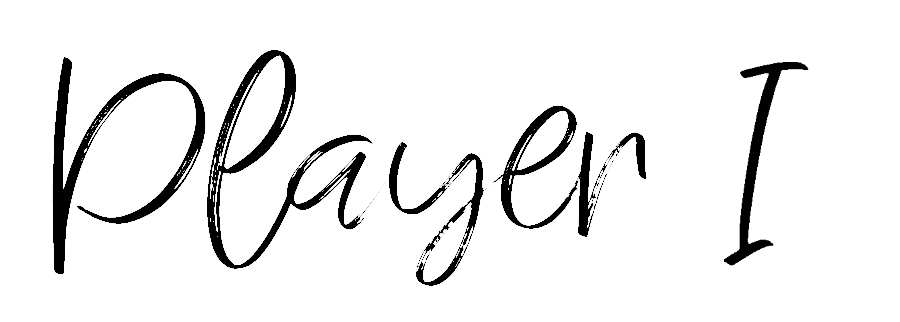
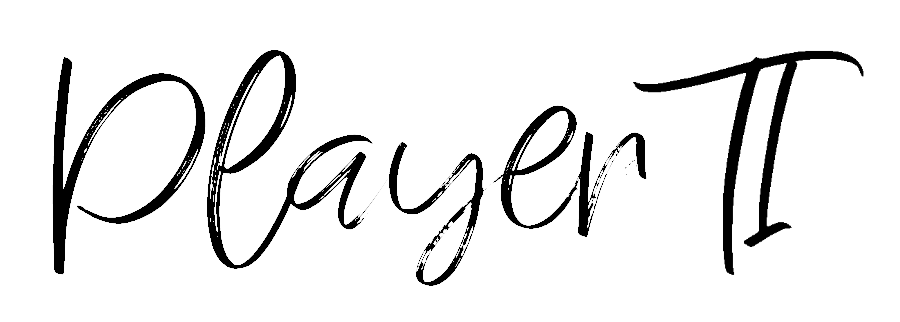
InfoPanel almost ready

Changed region(s): [[0.6844, 0.1553, 0.9644, 0.8385]]

diff --git a/src/main/java/gui/PlayerStatusPanel.java b/src/main/java/gui/PlayerStatusPanel.java
@@ -15,17 +15,27 @@ public class PlayerStatusPanel extends TemporalParent {
 //    private JLabel playerScoreLabel;
 //    private JLabel playerPointer;
     private int playerIndexNumber;
-//    private int playerScoreValue;
+    private int playerScoreValue = 0;
+    private String scoreValueGraphicUrl = "src\\main\\resources\\infoPanel\\" + playerScoreValue + ".png";
+//    private String playerNameGraphicUrl = "src\\main\\resources\\infoPanel\\player" + playerIndexNumber +".png";
 
     PlayerStatusPanel(int numberOfPlayers) {
         super();
         this.playerIndexNumber = playerNumberCounter++;
-        setOpaque(true);
-        setLayout(null);
-//        setVisible(true);
-        setBackground(new Color(127 * playerIndexNumber, 127 * playerIndexNumber, 127 * playerIndexNumber, 128));
-        int locationVerticalComponent = playerStatusPanelBounds[1] + (playerIndexNumber * playerStatusPanelBounds[3] / numberOfPlayers);
+        System.out.println(playerScoreValue);
 
+//        *     LOCAL DIMENSION VALUES
+
+        int locationVerticalComponent = playerStatusPanelBounds[1] + (playerIndexNumber * playerStatusPanelBounds[3] / numberOfPlayers);
+        int[] pointerBounds = {
+                0,
+                0,
+                playerStatusPanelBounds[2] >> 2,
+                (playerStatusPanelBounds[3] / numberOfPlayers) >> 1
+        };
+        int pointerGraphicSize = Math.min(pointerBounds[2], pointerBounds[3]);
+
+        setLayout(null);
         setBounds(
                 playerStatusPanelBounds[0],
                 locationVerticalComponent,
@@ -37,15 +47,14 @@ public class PlayerStatusPanel extends TemporalParent {
 
         JLabel playerPointer = new JLabel();
         playerPointer.setBounds(
-                0,
-                0,
-                playerStatusPanelBounds[2] >> 2,
-                (playerStatusPanelBounds[3] / numberOfPlayers) >> 1
+                0, 0,
+                pointerBounds[2],
+                pointerBounds[3]
         );
         Image PointerIcon = new ImageIcon("src\\main\\resources\\infoPanel\\pointer.png")
                 .getImage().getScaledInstance(
-                        Math.min(playerStatusPanelBounds[2] >> 2, (playerStatusPanelBounds[3] / numberOfPlayers) >> 1),
-                        Math.min(playerStatusPanelBounds[2] >> 2, (playerStatusPanelBounds[3] / numberOfPlayers) >> 1),
+                        pointerGraphicSize,
+                        pointerGraphicSize,
                         Image.SCALE_SMOOTH);
         playerPointer.setIcon(new ImageIcon(PointerIcon));
         add(playerPointer);
@@ -54,12 +63,18 @@ public class PlayerStatusPanel extends TemporalParent {
 
         JLabel playerName = new JLabel();
         playerName.setBounds(
-                playerStatusPanelBounds[2] >> 2,
+                pointerBounds[2],
                 0,
                 (playerStatusPanelBounds[2] - (playerStatusPanelBounds[2] >> 2)),
-                (playerStatusPanelBounds[3] / numberOfPlayers) >> 1
+                pointerBounds[3]
         );
-        playerName.setBackground(new Color(255, 255, 0, 128));
+        Image playerNameGraphic = new ImageIcon("src\\main\\resources\\infoPanel\\player"+playerIndexNumber+".png")
+                .getImage().getScaledInstance(
+                        (playerStatusPanelBounds[2] - (playerStatusPanelBounds[2] >> 2)),
+                        pointerBounds[3],
+                        Image.SCALE_SMOOTH
+                );
+        playerName.setIcon(new ImageIcon(playerNameGraphic));
         add(playerName);
 
 //        *     SCORES
@@ -69,14 +84,39 @@ public class PlayerStatusPanel extends TemporalParent {
                 playerStatusPanelBounds[2] >> 2,
                 (playerStatusPanelBounds[3] / numberOfPlayers) >> 1,
                 playerStatusPanelBounds[2] >> 1,
-                ((playerStatusPanelBounds[3] >> 1) - (playerStatusPanelBounds[3] >>5)) / numberOfPlayers
+                ((playerStatusPanelBounds[3] >> 1) - (playerStatusPanelBounds[3] >> 5)) / numberOfPlayers
         );
-        Image playerScoreIcon = new ImageIcon("src\\main\\resources\\infoPanel\\0.png")
+
+        Image playerScoreIcon = new ImageIcon(scoreValueGraphicUrl)
                 .getImage().getScaledInstance(
-                        ((playerStatusPanelBounds[3] >> 1) - (playerStatusPanelBounds[3] >>5)) / numberOfPlayers,
-                        ((playerStatusPanelBounds[3] >> 1) - (playerStatusPanelBounds[3] >>5)) / numberOfPlayers,
+                        ((playerStatusPanelBounds[3] >> 1) - (playerStatusPanelBounds[3] >> 5)) / numberOfPlayers,
+                        ((playerStatusPanelBounds[3] >> 1) - (playerStatusPanelBounds[3] >> 5)) / numberOfPlayers,
                         Image.SCALE_SMOOTH);
-                playerScoreValue.setIcon(new ImageIcon(playerScoreIcon));
+        playerScoreValue.setIcon(new ImageIcon(playerScoreIcon));
         add(playerScoreValue);
+    }
+
+    public int getPlayerIndexNumber() {
+        return playerIndexNumber;
+    }
+
+    public int getPlayerScoreValue() {
+        return playerScoreValue;
+    }
+
+    public void setPlayerScoreValue(int playerScoreValue) {
+        this.playerScoreValue = playerScoreValue;
+    }
+
+    public int incrementPlayerScoreValue() {
+        return ++playerScoreValue;
+    }
+
+    public String getScoreValueGraphicUrl() {
+        return scoreValueGraphicUrl;
+    }
+
+    public void setScoreValueGraphicUrl() {
+        this.scoreValueGraphicUrl = "src\\main\\resources\\infoPanel\\" + playerScoreValue + ".png";
     }
 }

diff --git a/src/main/java/gui/InfoPanel.java b/src/main/java/gui/InfoPanel.java
@@ -190,10 +190,6 @@ class InfoPanel extends TemporalParent implements InfoPaneling{
         add(player_1Pointer);
         add(player_2Pointer);
 
-//        *     HEADLINES
-
-
-
 //        *     PLAYER HEADLINES
 
         JLabel player_1Headline = new JLabel();
